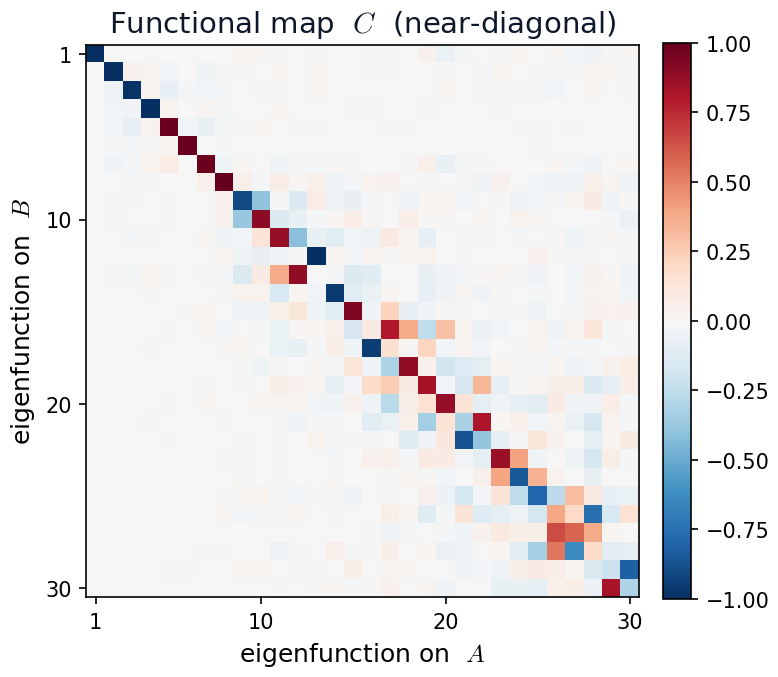
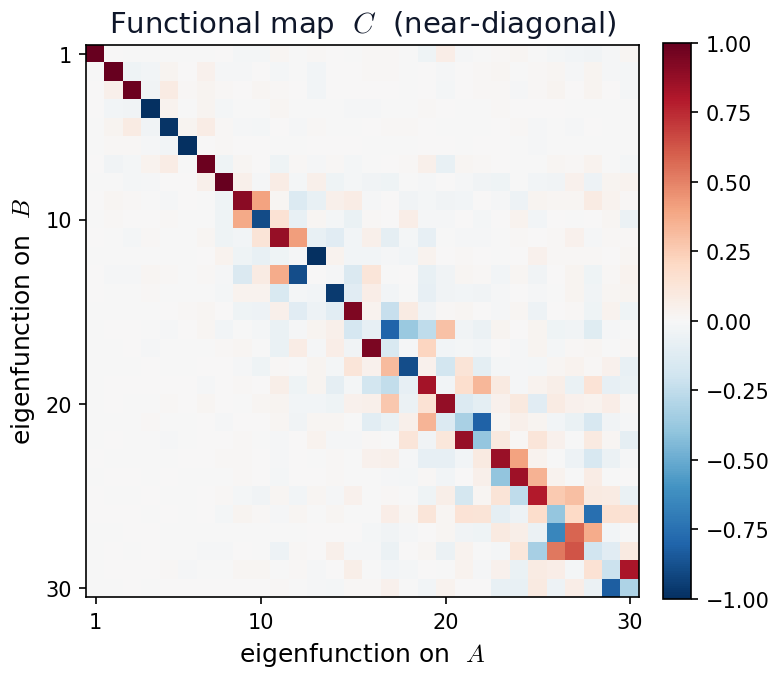
Slide 18: unpack b=Ca as a change of coordinates (matrix-vector animation)
Now shows f on A → its coefficient vector a (bars) → ×C → b (bars) → g on B,
with the compact C matrix and "b = C a · change of coordinates" in the centre.
Makes the coefficients-in-each-basis idea explicit instead of asserting b=Ca.

Generator: add coeff bar charts + compact C (gen_25).

diff --git a/gen/gen_25_correspondence.py b/gen/gen_25_correspondence.py
@@ -29,6 +29,7 @@ POSE_B = d.POSE_B                                   # horse-gallop-20
 KMAP = 80                                            # eigenfunctions for the map
 GREEN = "#39ff14"
 FG = "#0f172a"
+TEAL = "#2B5876"
 BAND = "coolwarm"
 
 
@@ -59,6 +60,40 @@ def build():
     d.render_field(Va, Fa, f, BAND, clim, str(OUT_DIR / "corr_func_a.png"))
     d.render_field(Vb, Fb, g, BAND, clim, str(OUT_DIR / "corr_func_b.png"))
     print("[ok] corr_func_a/b.png")
+
+    # ---- coefficient bars + compact C (the b = C a slide) --------------
+    n = 30
+    av, bv = a[:n], (C @ a)[:n]
+    ym = max(np.abs(av).max(), np.abs(bv).max()) * 1.12
+
+    def coeff_bars(vec, color, out):
+        fig, ax = plt.subplots(figsize=(4.4, 1.7))
+        ax.bar(np.arange(1, len(vec) + 1), vec, color=color, width=0.8)
+        ax.axhline(0, color="#cbd5e1", lw=0.8)
+        ax.set_ylim(-ym, ym)
+        ax.set_xlim(0.3, len(vec) + 0.7)
+        ax.set_xticks([1, 10, 20, 30])
+        ax.tick_params(labelsize=9)
+        ax.set_yticks([])
+        ax.spines[["top", "right", "left"]].set_visible(False)
+        plt.tight_layout()
+        plt.savefig(out, dpi=150, transparent=True, bbox_inches="tight", pad_inches=0.04)
+        plt.close()
+
+    coeff_bars(av, TEAL, str(OUT_DIR / "corr_coeff_a.png"))
+    coeff_bars(bv, "#b45309", str(OUT_DIR / "corr_coeff_b.png"))
+    print("[ok] corr_coeff_a/b.png")
+
+    Cn = C[:n, :n]
+    m = np.abs(Cn).max()
+    fig, ax = plt.subplots(figsize=(3.5, 3.5))
+    ax.imshow(Cn, cmap="RdBu_r", norm=colors.Normalize(-m, m))
+    ax.set_xticks([]); ax.set_yticks([])
+    plt.tight_layout(pad=0.2)
+    plt.savefig(str(OUT_DIR / "corr_cmat_small.png"), dpi=150, transparent=True,
+                bbox_inches="tight", pad_inches=0.04)
+    plt.close()
+    print("[ok] corr_cmat_small.png")
 
     # ---- the functional map C (slide 3) --------------------------------
     n = 30

diff --git a/slides.md b/slides.md
@@ -890,47 +890,71 @@ clicks: 2
 Match <span class="grad">functions</span>, not points
 </h1>
 
-<div class="flex-1 min-h-0 grid items-center gap-2" style="grid-template-columns: 1fr auto 1fr;">
+<div class="flex-1 min-h-0 grid items-stretch gap-3" style="grid-template-columns: 1fr 0.8fr 1fr;">
 
-<div class="h-full flex items-center justify-center">
+<!-- A: the function f and its coordinates a -->
+<div class="min-h-0 flex flex-col items-center justify-center gap-1">
   <img :src="`${$slidev.configs.base ?? '/'}applications/corr_func_a.png`"
-       class="max-h-full max-w-full object-contain" alt="a function on shape A" />
+       class="flex-1 min-h-0 max-h-full max-w-full object-contain" alt="a function f on shape A" />
+  <img :src="`${$slidev.configs.base ?? '/'}applications/corr_coeff_a.png`"
+       style="max-height: 26%" class="max-w-full object-contain" alt="coefficients of f" />
+
+  <div style="font-size: 14px; color: var(--c-fg-muted)">
+
+  coordinates of $f$ in $A$'s basis: $\mathbf{a}$
+
+  </div>
+
 </div>
 
-<div v-click="1" class="flex flex-col items-center justify-center" style="color: var(--c-fg-muted)">
-  <div style="font-size: 34px; line-height: 1">→</div>
-  <div style="font-size: 15px"><span style="font-style: italic">C</span></div>
+<!-- centre: C and b = C a -->
+<div v-click="1" class="flex flex-col items-center justify-center gap-2">
+  <img :src="`${$slidev.configs.base ?? '/'}applications/corr_cmat_small.png`"
+       style="max-height: 56%" class="max-w-full object-contain" alt="functional map C" />
+
+  <div style="font-size: 24px; color: var(--c-fg-body)">
+
+  $\mathbf{b} = C\,\mathbf{a}$
+
+  </div>
+
+  <div style="font-size: 13px; color: var(--c-fg-muted)">
+
+  change of coordinates
+
+  </div>
+
 </div>
 
-<div v-click="1" class="h-full flex items-center justify-center">
+<!-- B: the resulting coordinates b and the function g -->
+<div v-click="2" class="min-h-0 flex flex-col items-center justify-center gap-1">
   <img :src="`${$slidev.configs.base ?? '/'}applications/corr_func_b.png`"
-       class="max-h-full max-w-full object-contain" alt="the same function carried onto shape B" />
-</div>
+       class="flex-1 min-h-0 max-h-full max-w-full object-contain" alt="the function g on shape B" />
+  <img :src="`${$slidev.configs.base ?? '/'}applications/corr_coeff_b.png`"
+       style="max-height: 26%" class="max-w-full object-contain" alt="coefficients of g" />
+
+  <div style="font-size: 14px; color: var(--c-fg-muted)">
+
+  coordinates of $g$ in $B$'s basis: $\mathbf{b}$
+
+  </div>
 
 </div>
 
-<div class="flex flex-col items-center gap-1 mt-1" style="font-size: 18px; color: var(--c-fg-muted)">
-
-<div>
-
-A correspondence carries every <em>function</em> on $A$ to a function on $B$.
-
 </div>
 
-<div v-click="2">
+<div class="text-center mt-1" style="font-size: 17px; color: var(--c-fg-muted)">
 
-In the eigenbasis it is just a small matrix: &nbsp; $\mathbf{b} = C\,\mathbf{a}$.
-
-</div>
+Same function, two coordinate systems — $C$ translates $A$-coordinates into $B$-coordinates.
 
 </div>
 
 </div>
 
 <!--
-1. Instead of matching points, think of how a correspondence moves functions between the shapes.
-2. Painted on a different pose, the function lands on the same parts.
-3. Expressed in the LBO eigenbasis, this function-to-function map is a single matrix C acting on coefficient vectors.
+1. Any function on A is a list of coefficients — its coordinates in A's eigenbasis (just like the reconstruction earlier).
+2. The correspondence carries it to B, where it has its own coordinates b.
+3. Going from a to b is a single small matrix: b = C a — a change of coordinates between the two shapes' bases.
 -->
 
 ---
